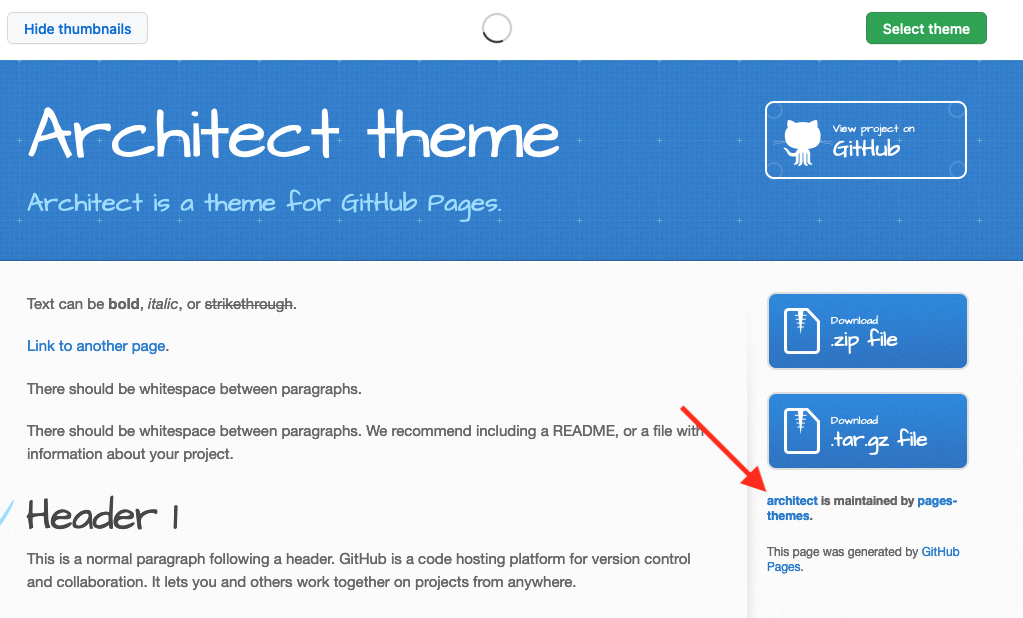
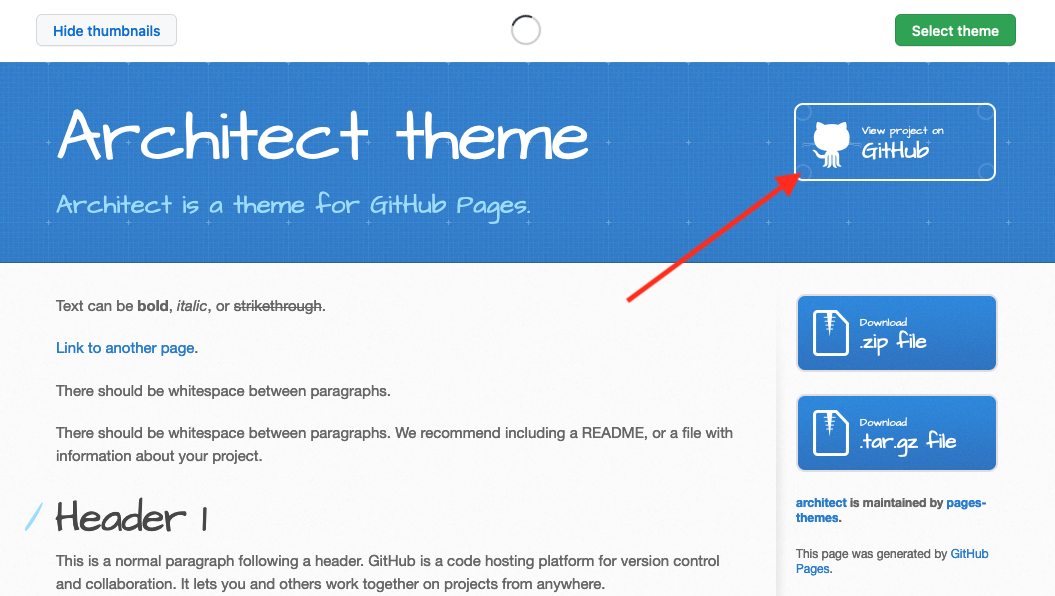
fix link image and show changed settings on styled page

diff --git a/manage/control/github/pages-themes.md b/manage/control/github/pages-themes.md
@@ -244,7 +244,7 @@ Since it is just a text file, you can edit it and [change the theme without goin
 theme: architect
 ```
 
-Depending on your theme, there may be other page settings that you can make to change the appearance of the site as well as site metadata. On the theme preview page in Settings, you can click on the small link for the theme.
+Depending on your theme, there may be other page settings that you can make to change the appearance of the site as well as site metadata. On the theme preview page in Settings, you can right-click on the `View project on GitHub` button and open the link in a new tab.
 
 <img src="../images-pages/theme_link.png" alt="screenshot showing link to theme website" style="border:1px solid black">
 
@@ -260,6 +260,13 @@ You can also navigate to the theme's `_config.yml` file to see how the options a
 
 <img src="../images-pages/theme_config_example.png" alt="theme _config.yml file" style="border:1px solid black">
 
+Here's what it looked like when I edited my `_config.yml` file
+
+<img src="../images-pages/editing_config_yml.png" alt="edited config file" style="border:1px solid black">
+
+After I committed and pushed the changed configuration file to GitHub, then waited a little while, here's how my homepage looked:
+
+<img src="../images-pages/configured_styled_homepage.png" alt="homepage after new configuration" style="border:1px solid black">
 
 
 ----
